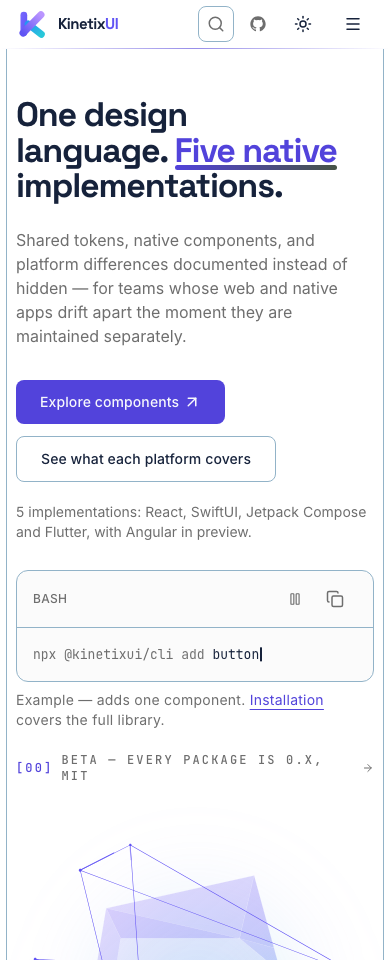
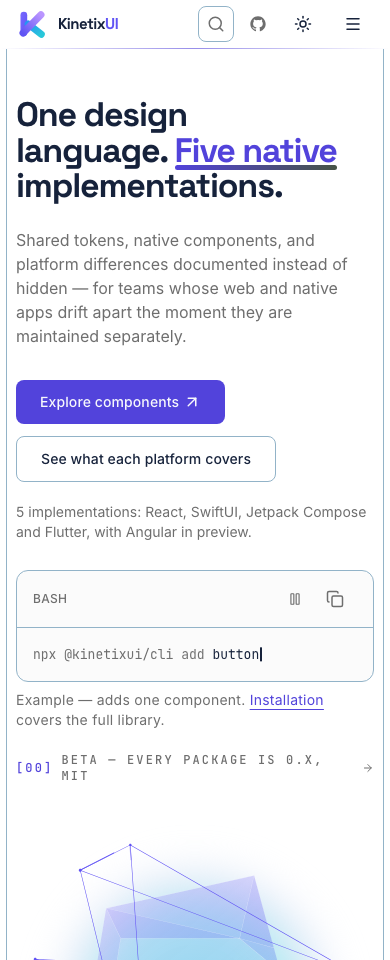
docs(web): capture the visible circular hero light spot

Changed region(s): [[0.2154, 0.9062, 0.8, 1.0]]

diff --git a/design-assets/identity/v1/verification/VERIFICATION.md b/design-assets/identity/v1/verification/VERIFICATION.md
@@ -1,6 +1,6 @@
 # Kinetic Weave verification — 2 November 2026
 
-Implementation revision: `5bcd567b031991233b8c30965c54cfe51d22cfca`.
+Implementation revision: `157717b48794a44fd46aae12c0f7040300aefe27`.
 Screenshots and browser results below are from its **actual production Next.js
 render**, not mockups. The later evidence commit changes only this directory.
 No merge, production promotion or package release was performed.
@@ -21,6 +21,16 @@ production build. The latest production build, changed-component lint,
 component-use guard and homepage pixel-contrast / aura-strength safeguards pass.
 Platform and token suite counts below are retained from the original rebrand
 validation; this refinement does not alter their source or token values.
+
+## Visible background-circle correction
+
+The cyan light spot now has a broad, visibly colored center behind the polygon,
+a circular silhouette and blurred fading edges. Its size is 82% of the artwork
+column with an 18px blur; dark mode has a separate luminous cyan/indigo treatment.
+The circle stays confined to the artwork. The pixel comparison now also rejects
+a spot that is too faint: a 55–110 channel-difference budget replaces the former
+wash-only ceiling. Copy-overlap checks and the 4.5:1 rendered lede contrast floor
+are unchanged. Production desktop/mobile/dark captures below are refreshed.
 
 ## Hero evidence
 
